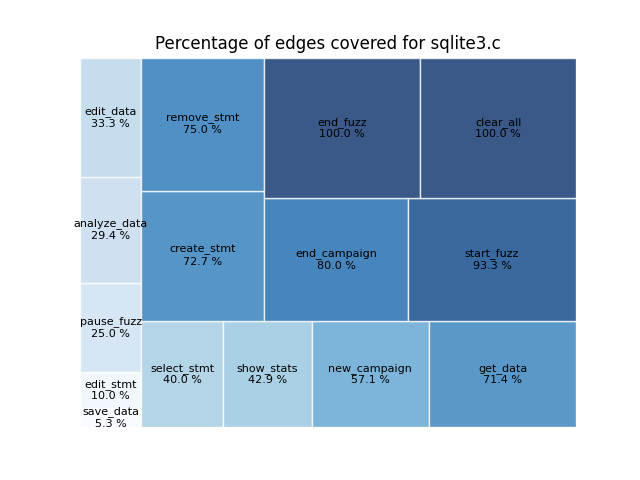
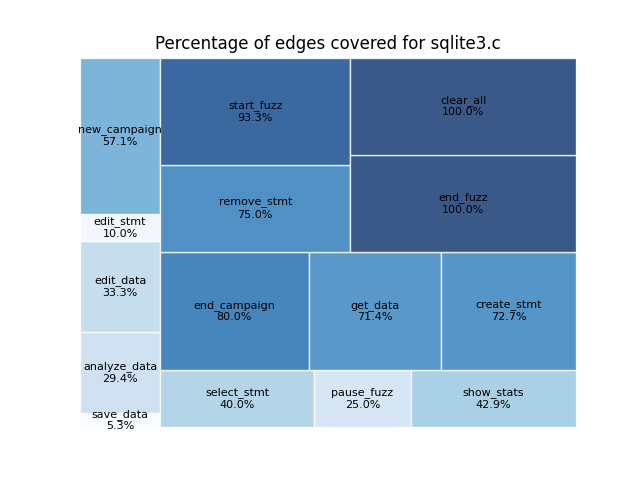
Attempt at changing subplot sizes to form treemap

Changed region(s): [[0.125, 0.125, 0.9062, 0.9062], [0.6875, 0.1875, 0.7812, 0.25], [0.75, 0.25, 0.8125, 0.2812]]

diff --git a/treemaps/treemaps_fuzzing.py b/treemaps/treemaps_fuzzing.py
@@ -9,7 +9,7 @@ import squarify
 COVERAGE_DATA_FILE = sys.argv[1]
 
 def plotSubgraph(values, label, ax, fileName):
-    ax.set_title(label, fontsize='8')
+    # ax.set_title(label, fontsize='8')
     is_value_covered_0 = values[0] == 0
     is_value_not_covered_0 = values[1] == 0
     values = [values[1]] if is_value_covered_0 else [values[0]] if is_value_not_covered_0 else values
@@ -31,9 +31,7 @@ df = pd.read_csv(COVERAGE_DATA_FILE, engine='python')
 df.columns = df.columns.str.replace('# ', '')
 df = df[df['edges_total'] != 0]
 df['edges_not_covered'] = df['edges_total'] - df['edges_covered']
-df['percent_covered'] = df['edges_covered']/df['edges_total']
-df['percent_not_covered'] = df['edges_not_covered']/df['edges_total']
-df = df.sort_values('percent_not_covered', ascending=False)
+df = df.sort_values('edges_not_covered', ascending=False)
 
 edges_covered = df['edges_covered'].values
 edges_total = df['edges_total'].values
@@ -46,13 +44,20 @@ no_covered_edges_indexes = []
 # Treemap 1: edges covered in green, edges not covered in red
 n_rows_plot = round(math.sqrt(n_rows_df))
 n_columns_plot = math.ceil(math.sqrt(n_rows_df))
-fig, axs = plt.subplots(n_rows_plot, n_columns_plot)
-plt.subplots_adjust(hspace=0.4, wspace=0.4)
+n_plots = n_rows_plot * n_columns_plot
+height_ratios = []
+edges_not_covered_split = np.array_split(edges_not_covered, n_rows_plot)
+width_ratios = np.mean(edges_not_covered_split, axis=0)
+for arr in edges_not_covered_split:
+    height_ratios.append(np.mean(arr))
+
+fig, axs = plt.subplots(n_rows_plot, n_columns_plot, gridspec_kw={'width_ratios': width_ratios, 'height_ratios': height_ratios})
+plt.subplots_adjust(hspace=0, wspace=0)
 
 for ax1 in axs:
     for ax2 in ax1:
         ax2.axis('off')
-fig.suptitle('Edges covered and not covered for ' + file_name)
+fig.suptitle('Edges not covered for ' + file_name)
 
 for index, value_covered in enumerate(edges_covered):
     if value_covered == 0:
@@ -62,17 +67,17 @@ for index, value_covered in enumerate(edges_covered):
     plotSubgraph(values, labels[index], axs[index // n_columns_plot][index % n_columns_plot], 'edge_coverage_treemap')
 
 # Treemap 2: percentage of edges covered
-for i, _ in enumerate(no_covered_edges_indexes):
-    edges_covered_copy = np.delete(edges_covered, i)
-    edges_total_copy = np.delete(edges_total, i)
-    labels_copy = np.delete(labels, i)
-    
+for _, num in enumerate(no_covered_edges_indexes):
+    edges_covered_copy = np.delete(edges_covered, num)
+    edges_total_copy = np.delete(edges_total, num)
+    labels_copy = np.delete(labels, num)
+
 percent_edges_covered_not_rounded = (edges_covered_copy/edges_total_copy)*100
 percent_edges_covered_rounded = []
 for i, elem in enumerate(percent_edges_covered_not_rounded):
     n_rounded = np.around(elem, 1)
     percent_edges_covered_rounded.append(n_rounded)
-    n_rounded_str = '\n' + str(n_rounded) + ' %'
+    n_rounded_str = '\n' + str(n_rounded) + '%'
     labels_copy[i] += n_rounded_str
 plt.figure()
 plt.title('Percentage of edges covered for ' + file_name)
